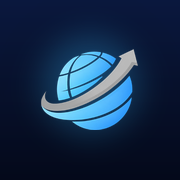
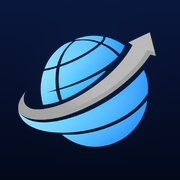
fix: el icono de la app instalada se veia chico y descentrado
El logo trae una sombra suelta debajo: una elipse gris separada del dibujo.
Al encuadrar entraba dentro del recuadro, asi que el globo quedaba empujado
hacia arriba y descentrado respecto de lo que se ve.

Encima el icono "maskable" —el que Android recorta en circulo para la
pantalla de inicio— ocupaba el 44% del cuadro: la tanda anterior se paso de
prudente huyendo del recorte y dejo el globo chico y perdido en un cuadro
oscuro.

Los nuevos (app3) salen del logo sin la sombra. Se centran en el punto medio
entre el centro del recuadro y el centro de masa, porque el dibujo es diagonal
y la esfera pesa abajo a la izquierda: centrado a secas se ve descolgado. Y se
estiran hasta el 76% del cuadro, o el 64% en el maskable, que es el maximo que
cabe dentro del circulo seguro del 80%, calculado sobre el circulo real que
envuelve al dibujo y no sobre el recuadro.

Mismo tratamiento para el apple-touch-icon del iPhone y para el icono de las
notificaciones, que usaba el logo transparente de la primera tanda y tambien
salia cortado por el recorte circular de Android.

Se generan con scripts/hacer_iconos.py, que queda en el repo.

Claude-Session: https://claude.ai/code/session_014HeRKemNuvSHtsMayy2oZK

Changed region(s): [[0.0833, 0.1667, 0.8611, 0.8333]]

diff --git a/frontend/vite.config.js b/frontend/vite.config.js
@@ -95,7 +95,7 @@ export default defineConfig({
       // El susto de la recarga a destiempo lo cubre AvisoActualizacion, que
       // espera a que no haya una ventana abierta ni un campo en uso.
       registerType: 'autoUpdate',
-      includeAssets: ['favicon.ico', 'favicon.png', 'apple-touch-icon.png', 'icons/app2-192.png', 'icons/app2-512.png', 'icons/app2-maskable-192.png', 'icons/app2-maskable-512.png'],
+      includeAssets: ['favicon.ico', 'favicon.png', 'apple-touch-icon.png', 'icons/app3-192.png', 'icons/app3-512.png', 'icons/app3-maskable-192.png', 'icons/app3-maskable-512.png'],
       workbox: {
         // El service worker lo genera workbox en cada build, así que el
         // manejador de notificaciones no puede vivir dentro: se importa.
@@ -128,16 +128,28 @@ export default defineConfig({
         related_applications: [
           { platform: 'webapp', url: 'https://ksaglobal-evolution.com/manifest.webmanifest' },
         ],
-        // Iconos con fondo de la marca y el logo con aire alrededor. Los de
-        // antes eran el logo transparente llenando todo el cuadro, y el mismo
-        // archivo servía de «maskable»: Android lo recortaba al círculo y el
-        // globo quedaba cortado y pegado a los bordes. Nombres nuevos a
-        // propósito, para que los teléfonos no sigan con los viejos en caché.
+        // Iconos con fondo de la marca. Los primeros eran el logo transparente
+        // llenando todo el cuadro, y el mismo archivo servía de «maskable»:
+        // Android lo recortaba al círculo y el globo quedaba cortado.
+        //
+        // Los segundos (app2) arreglaron el recorte pasandose de prudentes: el
+        // dibujo ocupaba el 44% del cuadro en el «maskable», así que en la
+        // pantalla de inicio se veía un globo chico perdido en un cuadro
+        // oscuro. Y los dos se encuadraban contando la sombra del logo, que es
+        // una elipse gris suelta debajo del dibujo: eso empujaba el globo hacia
+        // arriba y lo dejaba descentrado.
+        //
+        // Estos (app3) salen del logo sin la sombra, centrados a ojo —el
+        // dibujo es diagonal y la esfera pesa abajo a la izquierda— y ocupando
+        // el 76% del cuadro, o el 64% en el «maskable», que es todo lo que
+        // cabe dentro del círculo seguro del 80%. Se generan con
+        // scripts/hacer_iconos.py. Nombres nuevos a propósito, para que los
+        // teléfonos no sigan con los viejos en caché.
         icons: [
-          { src: '/icons/app2-192.png', sizes: '192x192', type: 'image/png', purpose: 'any' },
-          { src: '/icons/app2-512.png', sizes: '512x512', type: 'image/png', purpose: 'any' },
-          { src: '/icons/app2-maskable-192.png', sizes: '192x192', type: 'image/png', purpose: 'maskable' },
-          { src: '/icons/app2-maskable-512.png', sizes: '512x512', type: 'image/png', purpose: 'maskable' },
+          { src: '/icons/app3-192.png', sizes: '192x192', type: 'image/png', purpose: 'any' },
+          { src: '/icons/app3-512.png', sizes: '512x512', type: 'image/png', purpose: 'any' },
+          { src: '/icons/app3-maskable-192.png', sizes: '192x192', type: 'image/png', purpose: 'maskable' },
+          { src: '/icons/app3-maskable-512.png', sizes: '512x512', type: 'image/png', purpose: 'maskable' },
         ],
       },
     }),

diff --git a/frontend/index.html b/frontend/index.html
@@ -18,7 +18,7 @@
 
     <link rel="icon" href="/favicon.ico" sizes="any" />
     <link rel="icon" type="image/png" sizes="64x64" href="/favicon.png" />
-    <link rel="apple-touch-icon" sizes="180x180" href="/apple-touch-icon.png?v=3" />
+    <link rel="apple-touch-icon" sizes="180x180" href="/apple-touch-icon.png?v=4" />
 
     <meta property="og:site_name" content="Ksa Global Evolution" />
     <meta property="og:title" content="Envía dinero a Latinoamérica en minutos · Ksa Global" />
@@ -48,7 +48,7 @@
           "name": "Ksa Global Evolution",
           "alternateName": "Ksa Global",
           "url": "https://ksaglobal-evolution.com/",
-          "logo": "https://ksaglobal-evolution.com/icons/app2-512.png"
+          "logo": "https://ksaglobal-evolution.com/icons/app3-512.png"
         },
         {
           "@type": "WebSite",

diff --git a/frontend/public/push-sw.js b/frontend/public/push-sw.js
@@ -9,8 +9,10 @@ self.addEventListener('push', function (evento) {
   var titulo = datos.title || 'KSA Global Evolution';
   var opciones = {
     body: datos.body || '',
-    icon: '/icons/icon-192.png',
-    badge: '/icons/icon-192.png',
+    // El «maskable»: Android recorta en círculo también el icono del aviso,
+    // y el logo suelto de antes se veía cortado por los bordes.
+    icon: '/icons/app3-maskable-192.png',
+    badge: '/icons/app3-maskable-192.png',
     // Con la misma etiqueta, el aviso nuevo de una orden reemplaza al anterior
     // en vez de apilarse: cinco cambios de estado no dejan cinco avisos.
     tag: datos.tag || undefined,

diff --git a/scripts/hacer_iconos.py b/scripts/hacer_iconos.py
@@ -1,0 +1,119 @@
+# -*- coding: utf-8 -*-
+"""Genera los iconos de la app desde el logo: python scripts/hacer_iconos.py
+
+El logo trae una sombra suelta debajo (una elipse gris separada del dibujo).
+Entraba dentro del recuadro al encuadrar, asi que el globo quedaba empujado
+hacia arriba, y encima esa mancha gris se veia sobre el fondo oscuro. Se
+recorta.
+
+Centrado: el dibujo es diagonal —la esfera pesa abajo a la izquierda y la
+flecha es fina y se va arriba a la derecha—, asi que centrar por el recuadro
+deja la masa descolgada. Se centra en el punto medio entre el centro del
+recuadro y el centro de masa.
+
+Tamano: el icono «maskable» lo recorta Android en circulo y solo se puede
+contar con el 80% central. La tanda anterior se paso de prudente y el dibujo
+ocupaba el 44% del cuadro: en la pantalla de inicio se veia un globo chico
+perdido. Aqui se calcula el circulo real que envuelve al dibujo y se estira
+hasta llenar ese 80%.
+"""
+import os
+
+import numpy as np
+from PIL import Image
+
+RAIZ = os.path.dirname(os.path.dirname(os.path.abspath(__file__)))
+PUBLICA = os.path.join(RAIZ, "frontend", "public")
+LOGO = os.path.join(RAIZ, "frontend", "src", "assets", "logo.png")
+SALIDA = os.path.join(PUBLICA, "icons")
+
+# Fondo: degradado vertical mas un resplandor suave en el centro, los mismos
+# tonos que traia el icono anterior.
+ARRIBA = (10, 24, 62)
+ABAJO = (4, 9, 26)
+BRILLO = (56, 189, 248)      # el azul de la marca, a muy poca fuerza
+
+
+def fondo(n):
+    y = np.linspace(0, 1, n)[:, None]
+    cap = (np.array(ARRIBA)[None, None, :] * (1 - y[:, :, None])
+           + np.array(ABAJO)[None, None, :] * y[:, :, None])
+    cap = np.repeat(cap, n, axis=1)
+    ejes = np.linspace(-1, 1, n)
+    dx, dy = np.meshgrid(ejes, ejes)
+    d = np.sqrt(dx ** 2 + dy ** 2)
+    g = np.clip(1 - d / 1.15, 0, 1) ** 2.2
+    cap = cap + g[:, :, None] * np.array(BRILLO)[None, None, :] * 0.075
+    return Image.fromarray(np.clip(cap, 0, 255).astype(np.uint8), "RGB")
+
+
+def logo_limpio():
+    """El logo sin la sombra de abajo, recortado a lo que se ve."""
+    im = Image.open(LOGO).convert("RGBA")
+    alfa = np.asarray(im)[:, :, 3]
+    filas = (alfa > 10).sum(1)
+
+    # La sombra es un trozo aparte: hay filas vacias entre el dibujo y ella.
+    # Se corta en el primer hueco que venga despues de la mitad.
+    corte = im.height
+    vacia = False
+    for y in range(im.height // 2, im.height):
+        if filas[y] == 0:
+            vacia = True
+        elif vacia:
+            corte = y - 1
+            break
+    im = im.crop((0, 0, im.width, corte))
+
+    alfa = np.asarray(im)[:, :, 3]
+    ys, xs = np.nonzero(alfa > 10)
+    return im.crop((xs.min(), ys.min(), xs.max() + 1, ys.max() + 1))
+
+
+def encuadra(logo, lienzo, parte, circular):
+    """Pega el logo sobre el fondo, centrado a ojo y al tamano pedido.
+
+    `parte` es cuanto del lado ocupa el dibujo. Con `circular` el limite es el
+    circulo que lo envuelve —la zona segura de los iconos «maskable»— y no el
+    recuadro.
+    """
+    alfa = np.asarray(logo)[:, :, 3].astype(float)
+    al, an = alfa.shape
+
+    ys, xs = np.nonzero(alfa > 10)
+    peso = alfa[alfa > 10]
+    cx = ((xs * peso).sum() / peso.sum() + (an - 1) / 2) / 2
+    cy = ((ys * peso).sum() / peso.sum() + (al - 1) / 2) / 2
+
+    if circular:
+        r = np.sqrt((xs - cx) ** 2 + (ys - cy) ** 2).max()
+    else:
+        r = max(max(cx, an - 1 - cx), max(cy, al - 1 - cy))
+    escala = (parte * lienzo / 2) / r
+
+    chico = logo.resize((max(1, round(an * escala)), max(1, round(al * escala))), Image.LANCZOS)
+    lienzo_im = fondo(lienzo)
+    lienzo_im.paste(chico, (round(lienzo / 2 - cx * escala), round(lienzo / 2 - cy * escala)), chico)
+    return lienzo_im
+
+
+def guarda(im, ruta):
+    im.save(ruta, "PNG", optimize=True)
+    print(os.path.basename(ruta), im.size, os.path.getsize(ruta) // 1024, "KB")
+
+
+if __name__ == "__main__":
+    logo = logo_limpio()
+    print("logo sin sombra:", logo.size)
+
+    # «any»: se ve entero, sin recortes.
+    for n in (192, 512):
+        guarda(encuadra(logo, n, 0.80, circular=False), os.path.join(SALIDA, "app3-%d.png" % n))
+
+    # «maskable»: Android recorta en circulo; la zona segura es el 80% central.
+    for n in (192, 512):
+        guarda(encuadra(logo, n, 0.78, circular=True), os.path.join(SALIDA, "app3-maskable-%d.png" % n))
+
+    # iPhone: pone el icono tal cual y le redondea las esquinas. Vive en la
+    # raiz de public, no en icons/, porque asi lo pide index.html.
+    guarda(encuadra(logo, 180, 0.80, circular=False), os.path.join(PUBLICA, "apple-touch-icon.png"))
